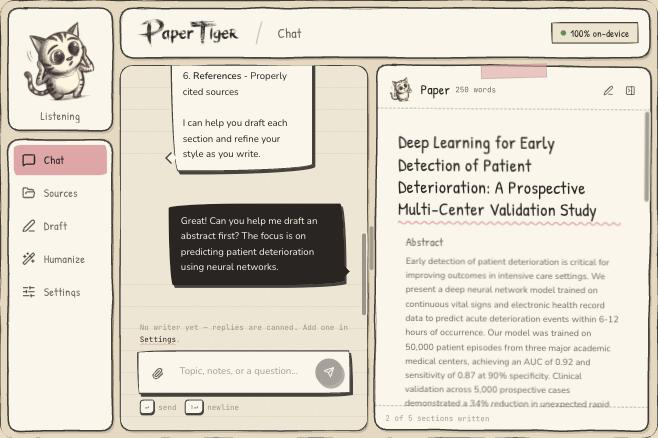
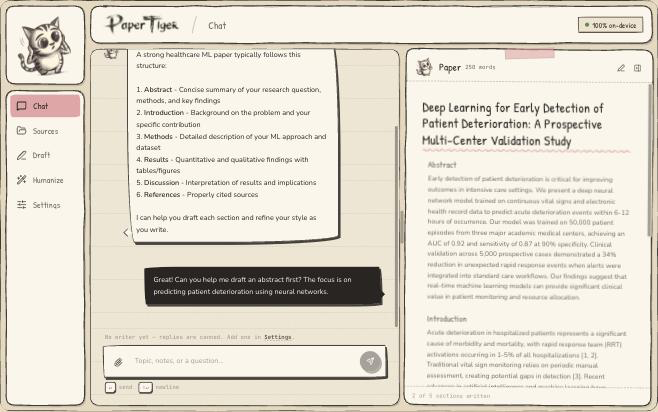
Show only the illustration in the tiger card
The caption and busy bar under the big tiger are removed, so the card is a
152x152 square with the 128px tiger. The pose is still named through alt
text, and status changes are still announced through the hidden live
region.

diff --git a/src/components/ui/TigerCard.tsx b/src/components/ui/TigerCard.tsx
@@ -5,7 +5,11 @@ import { tigerLabel, useTigerCycle, useTigerStatus } from '../../lib/tiger'
 
 const TIGER_SIZE = 128
 
-/** The big tiger with a caption. Shows the live status while busy, else the 5 s idle cycle. */
+/**
+ * The big tiger, illustration only. Shows the live status pose while busy, else the 5 s idle
+ * cycle. There is no visible caption; status changes are still announced to screen readers
+ * through a hidden live region (the idle cycle is never announced).
+ */
 export const TigerCard: React.FC = () => {
   const status = useTigerStatus()
   const cycled = useTigerCycle()
@@ -16,24 +20,9 @@ export const TigerCard: React.FC = () => {
       seed={4}
       radius={18}
       data-tauri-drag-region
-      className="shrink-0 flex flex-col items-center p-3 select-none"
+      className="shrink-0 flex items-center justify-center p-3 select-none"
     >
       <Tiger state={shown} size={TIGER_SIZE} alt={label} className="pointer-events-none" />
-      <p
-        aria-hidden="true"
-        className={
-          'pointer-events-none mt-1.5 w-full text-center truncate font-display text-[17px] leading-tight ' +
-          (status ? 'text-fg' : 'text-fg-muted')
-        }
-      >
-        {label}
-      </p>
-      {status && (
-        <span
-          aria-hidden="true"
-          className="hatch hatch-animate pointer-events-none mt-1 block h-1 w-10 rounded-full"
-        />
-      )}
       <p aria-live="polite" className="sr-only">
         {status ? tigerLabel(status) : ''}
       </p>

diff --git a/docs/DESIGN.md b/docs/DESIGN.md
@@ -111,7 +111,7 @@ If a sprite file is missing, `tigerSrc` falls back to the closest emotion, then 
 **Hydration.** Sources and chat messages that already exist when the engine first runs never trigger anything: a restored error doesn't show sad, and the seeded chat thread ending in a user message doesn't pin `thinking`.
 
 **Where each pose is used.**
-- Engine-driven (`<Tiger cycle>`): left-column tiger card (128px, with caption), Settings (64px), paper panel header (40px), Draft generating (48px), Humanize result card while running (48px).
+- Engine-driven (`<Tiger cycle>`): left-column tiger card (128px, illustration only), Settings (64px), paper panel header (40px), Draft generating (48px), Humanize result card while running (48px).
 - Sources rows (32px): `tigerForSource(source)`, which shows opening-book, focused-reading or sleepy-reading, sad on error, and nothing when done. The rows re-render every second only while something is extracting.
 - Sources drop zone (96px): `reading` on drag-over, `cuddly` with no sources, `taking-notes` when sources exist and none is running, `idle` while one runs.
 - Fixed: Chat empty state `hopeful` (140px), Chat typing indicator `thinking` (36px), Setup wizard one state per step, Humanize empty state `cuddly` (96px).
@@ -180,7 +180,7 @@ The window is a rounded **desk**, and every column floats on it as its own card 
   - To regenerate it, run `/opt/homebrew/bin/python3 design/tools/make_wordmark.py`.
 ## Tiger card and rail
 
-- **Tiger card** (`src/components/ui/TigerCard.tsx`): a `SketchFrame` (seed 4) at the top of the left column with a 128px `<Tiger>` that shows `useTigerStatus() ?? useTigerCycle()`. The caption under it (`font-display`, 17px, truncated) is the pose label from `tigerLabel()` in `src/lib/tiger.ts`: `text-fg` plus a small animated hatch bar while busy, `text-fg-muted` while idle. A visually hidden `aria-live="polite"` line holds only the status label, so the 5 s idle cycle is never announced; the visible caption is `aria-hidden`.
+- **Tiger card** (`src/components/ui/TigerCard.tsx`): a `SketchFrame` (seed 4) at the top of the left column with a 128px `<Tiger>` that shows `useTigerStatus() ?? useTigerCycle()`. The card shows only the illustration (152×152 square card, 128px tiger, no visible caption or busy bar). A visually hidden `aria-live="polite"` line holds the status label from `tigerLabel()` in `src/lib/tiger.ts`, so status changes are announced to screen readers and the 5 s idle cycle never is; the tiger's `alt` carries the pose label.
 - **Rail** (`Sidebar.tsx`): a `<nav aria-label="Main">` that fills the rest of the 152px column. Each `SidebarItem` is a 44px (`h-11`) horizontal row: 20px icon, 17px label, `aria-current="page"` when active, and the shared `highlighter` spanning the whole row. Hover is a gentle `rotate -1, scale 1.02`.
 
 ## Paper panel

diff --git a/CLAUDE.md b/CLAUDE.md
@@ -398,3 +398,10 @@ describing what was planned and what was implemented.
 - **Paper panel:** `maxWidth()` now also keeps the main card at least 360px wide (400px max panel at a 960px window).
 - Docs: `docs/DESIGN.md` updated (layout, header, tiger card and rail, panel width).
 - Verified: build, lint and 114 tests clean. In the browser at 1280×800 and 960×640: the left column is 152px, the tiger 128×128, the header 72px starting at x=176, every rail row 44px with `aria-current` on the active one, and the page does not scroll. At 960 a stored panel width of 900 clamps to 400, leaving main at 360. A flashed `focused-reading` shows "Reading" with the hatch bar and fills the live region, which empties again afterwards. Tab shows the focus ring on the rail rows. Night mode keeps the sticker disc, and `/setup` has a full-width header with no tiger. Screenshots: `docs/ux-v3-header.png`, `docs/ux-v3-header-night.png`. Not checked by eye in the Tauri window.
+
+### 2026-11-20 — Tiger card shows only the illustration (Opus plan, Sonnet build)
+- The visible caption and the busy hatch bar under the tiger are removed from `TigerCard.tsx` at the user's request.
+- The card is a 152×152 square with the 128px tiger centred in it.
+- The tiger's `alt` and the hidden `aria-live="polite"` status line are kept, so status changes are still announced to screen readers.
+- Docs: `docs/DESIGN.md` updated (tiger card and tiger-usage list).
+- Verified: build and lint clean. In the browser at 1280×800 the card measures 152×152 with the tiger at 128×128 and no visible text; a flashed `focused-reading` still fills the live region with "Reading", which empties again afterwards. `docs/ux-v3-header.png` refreshed.
